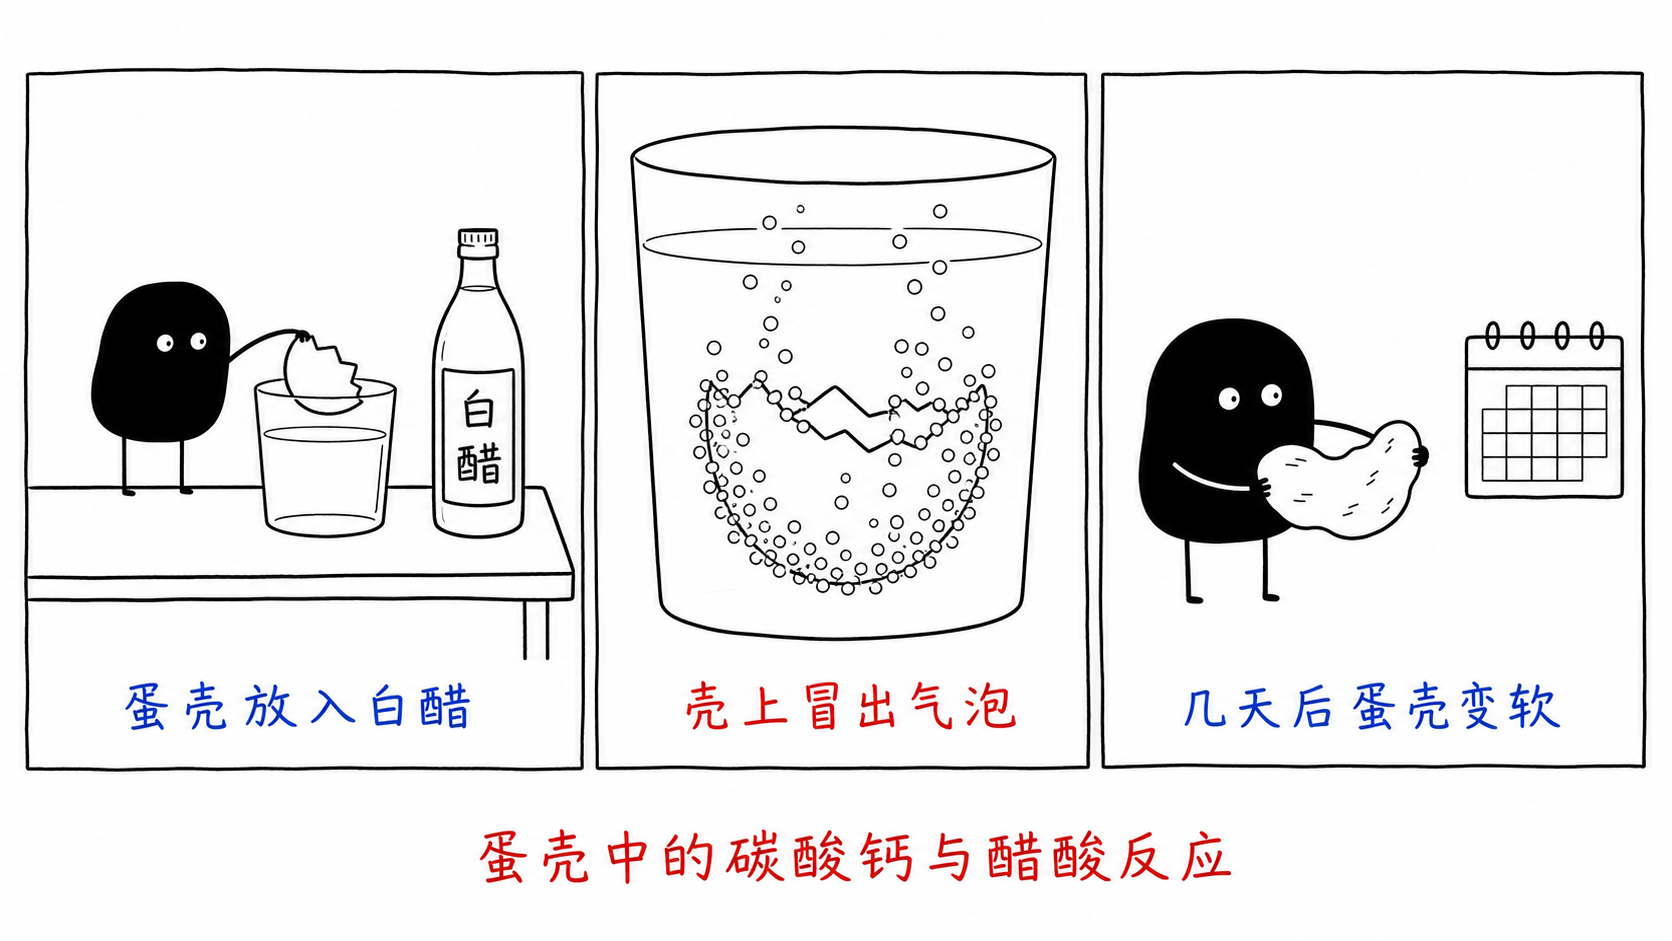
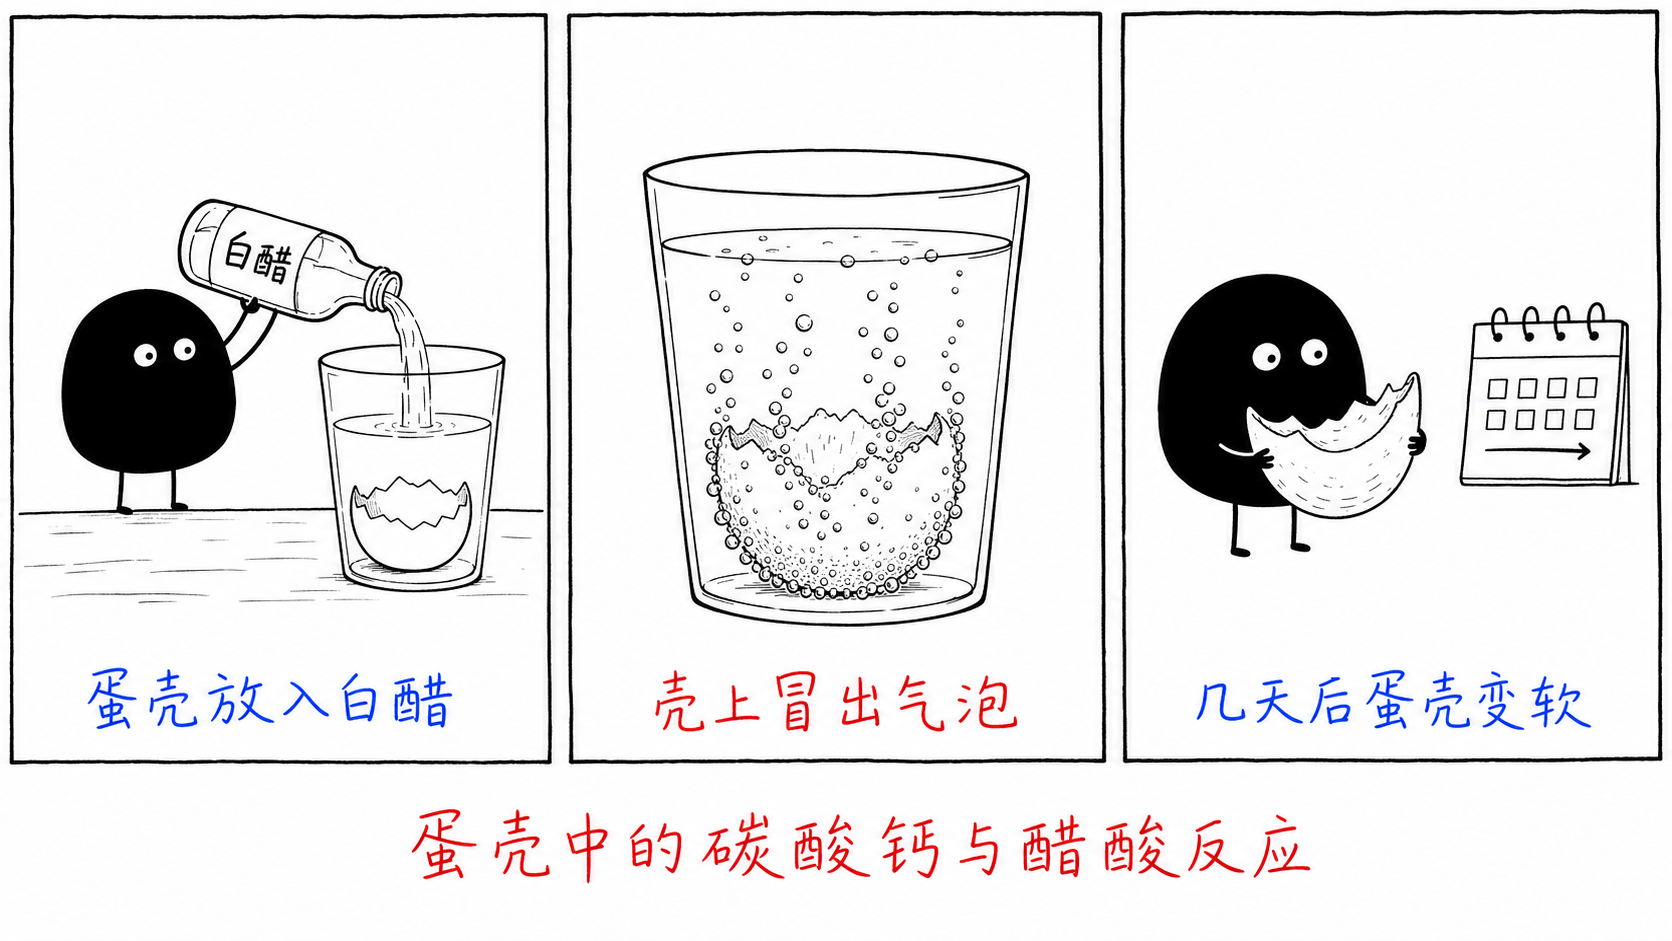
补推审稿三轮修订：图6扩为16格+图9/图10重做
- 图6 16格系列（组图v7）：新增化学除杂得精盐格；⑤⑥内容重分配（溶解+依次加
  氯化钡/氢氧化钠/碳酸钠溶液→过滤+石棉网蒸发结晶）；过滤装置改教材式（漏斗正立
  短直颈贴杯壁）；石灰乳倒入卤水；蒸发浓缩加酒精灯、冷却结晶自然冷却；电解格
  改电键串联+阴阳极产物标注+回路闭合修正
- 图9 v2：蛋壳已在杯中、白醋瓶倾斜倒液
- 图10 v2：去除多余罐子、三条解释标注统一蓝色
- 档案：16格逐格提示词与图9/图10提示词同步；README 16格

Changed region(s): [[0.0, 0.0, 0.9952, 0.8321], [0.2488, 0.8629, 0.7775, 0.9554], [0.0622, 0.7088, 0.2799, 0.7705]]

diff --git a/prompts/样图提示词档案.md b/prompts/样图提示词档案.md
@@ -25,24 +25,25 @@
 
 生成一张独立的 16:9 横版中文高中化学教学插图。【风格】通用风格，仅两处对话气泡、两个箭头标签与底部提问有文字（另允许微粒圆内的元素字母）。【角色】两个小黑分立容器两侧并明显面向对方、作面对面争辩姿态：左侧护目镜推至头顶（不遮眼）、张开双臂辩解并前倾；右侧戴小帽、抬手指向对方并前倾。【主题】以真实反应 2SO₂＋O₂⇌2SO₃ 辨析"可逆反应达到平衡后反应是否停止"。【微粒画法】SO₂＝一个标 S 的中圆两侧各连一个标 O 的小圆（弯折形）；O₂＝两个标 O 的小圆相连；SO₃＝一个标 S 的中圆周围连三个标 O 的小圆。【结构】中央画一只带塞的密闭容器，容器内三种微粒共存：恰好 2 个 SO₂、1 个 O₂、2 个 SO₃ 散布其中；容器中部画两支长度、粗细完全相同的水平箭头，上支向右标"正反应"、下支向左标"逆反应"。左侧角色气泡"达到平衡后反应就停止了"，右侧角色气泡"正逆反应仍在进行，只是速率相等"，画面下缘橙色手写"哪种说法对？"。【标注】只允许上述文字与圆内字母 S／O。【约束】容器内微粒计数必须恰好 2 SO₂＋1 O₂＋2 SO₃；每个圆内字母正确；两支箭头完全等长等粗；两个角色必须面对面、有对话争辩感；留白充分。
 
-### 图6 "海洋化学资源的综合利用"单元系列（15格通用+逐格）
+### 图6 "海洋化学资源的综合利用"单元系列（16格通用+逐格）
 
-十五格共用【系列风格】：通用风格；每格 1~3 条红/蓝标注；小黑在每格承担该步操作；涉及仪器须按规范绘制。逐格【主题与结构】如下（标注即每格允许出现的全部文字）：
+十六格共用【系列风格】：通用风格；每格 1~3 条红/蓝标注；小黑在每格承担该步操作；涉及仪器须按规范绘制（过滤一律用教材式装置：漏斗正立、短直颈竖直向下、接收烧杯在正下方、颈末端斜口轻贴杯内壁，颈绝不弯曲拉长）。逐格【主题与结构】如下（标注即每格允许出现的全部文字）：
 ①海洋宝库：小黑立于海上小船远眺，海面下画少量闪光点；蓝标"海水——巨大的化学资源宝库"。
 ②引入盐田：海水经引水渠进入成片浅方格盐田，小黑开小水闸；蓝标"海水引入盐田"。
 ③蒸发结晶：烈日照浅池，水位下降、池底析出小盐晶，小黑在旁擦汗；红标"日晒蒸发结晶"。
 ④得到粗盐：小黑戴草帽在干涸盐田耙盐成堆；红标"得到粗盐"。
-⑤溶解过滤：小黑用玻璃棒把粗盐搅入水杯→规范过滤装置（铁架台+铁圈托漏斗+滤纸+玻璃棒引流+烧杯承接、漏斗颈贴杯壁）→蒸发皿白盐；蓝标"溶解、过滤除去不溶性杂质"、红标"得到粗盐"。
-⑥贝壳石灰乳：贝壳堆＋小窑内火焰→桶中乳白液体，小黑搅拌；蓝标"贝壳煅烧"、红标"制成石灰乳"。
-⑦沉淀氢氧化镁：小黑将标"石灰乳"的桶倾入大沉降池，池中液体蓝标"海水"，池底白色絮状沉淀；红标"生成氢氧化镁沉淀"。
-⑧盐酸溶解与脱水（四段）：标"盐酸"的试剂瓶向白色沉淀烧杯倾倒（蓝标"加盐酸溶解"）→蒸发皿加热冒汽（蓝标"蒸发浓缩"）→烧杯坐冷水盆中析出晶体（蓝标"冷却结晶"）→密闭电热箱（底座电热丝、进气管标"通入氯化氢气体"）内加热晶体（红标"加热脱水"）；不出现明火。
-⑨电解得镁：电解槽两电极接电源＋−；＋端电极冒气泡红标"阳极产生氯气"，−端电极沉积金属红标"阴极得到镁"，极性必须自洽；槽下受热波纹，小黑拉闸；蓝标"电解熔融氯化镁"。
-⑩通氯提溴：大槽盛提盐后母液，导气管向液中鼓气泡，气泡周围液体泛浅橙色，小黑持管；蓝标"母液中通入氯气"、红标"溴离子转化为溴"。
-⑪吹出冷凝：鼓风机把热空气吹入橙色液槽，橙色蒸气经导管进入规范直形冷凝管（双层套管；下端侧口标"进水"、上端侧口标"出水"，逆流冷凝），管口滴橙棕色液滴入收集瓶；蓝标"热空气吹出"、红标"冷凝得到粗溴"。
-⑫溴的精制（三段）：洗气瓶通标"二氧化硫"的导管吸收溴蒸气（液体近无色，蓝标"吸收富集"）→同型瓶通标"氯气"的导管、液体转橙（蓝标"氯气氧化"）→简易蒸馏装置（圆底烧瓶+支管+接收瓶收深红棕液体，红标"蒸馏得到液溴"）。
-⑬海带灼烧（三段）：干海带旁，坩埚（带盖半开）置泥三角与三脚架上、下方酒精灯灼烧（蓝标"坩埚中灼烧"，海带必须在坩埚中灼烧而非敞口皿）→灰入烧杯加水、小黑持玻璃棒搅拌（蓝标"加水浸取"）→规范过滤装置同⑤（红标"滤液含碘离子"）。
-⑭氧化得碘：烧杯盛澄清滤液，标"氯气"的导管伸入液底鼓泡，气泡周围溶液转黄棕；蓝标"通入适量氯气"、红标"碘离子被氧化为碘"。
-⑮萃取分液：梨形分液漏斗架于铁圈，内分两层——上层近无色、下层紫红（四氯化碳密度大于水必须在下层），小黑开旋塞将下层放入锥形瓶，旁置标"四氯化碳"的试剂瓶；蓝标"加四氯化碳萃取"、红标"分液得到碘的四氯化碳溶液"。
+⑤溶解与除杂：两段——小黑用玻璃棒把粗盐搅入水杯（蓝标"将粗盐溶解"）→同杯生成白色沉淀，旁列标"氯化钡溶液""氢氧化钠溶液""碳酸钠溶液"的三只试剂瓶、小黑倾倒（蓝标"依次加入除杂溶液"）。
+⑥过滤与蒸发结晶：两段——教材式过滤装置：漏斗正立坐于铁圈、短直颈竖直向下、接收烧杯位于正下方且颈末端斜口轻贴杯内壁、玻璃棒引流、小黑自上方沿棒倾倒（蓝标"过滤"；漏斗颈绝不弯曲拉长）→三脚架上垫石棉网、蒸发皿置网上、下方酒精灯加热出白色晶体（红标"蒸发结晶得到精盐"）。
+⑦贝壳石灰乳：贝壳堆＋小窑内火焰→桶中乳白液体，小黑搅拌；蓝标"贝壳煅烧"、红标"制成石灰乳"。
+⑧沉淀氢氧化镁：小黑将标"石灰乳"的桶倾入大沉降池，池中液体蓝标"卤水"，池底白色絮状沉淀；红标"生成氢氧化镁沉淀"。
+⑨盐酸溶解与脱水（四段）：标"盐酸"的试剂瓶向白色沉淀烧杯倾倒（蓝标"加盐酸溶解"）→蒸发皿置三脚架石棉网上、下方酒精灯有火焰加热冒汽（蓝标"蒸发浓缩"）→烧杯直接静置桌面自然冷却析出晶体、不加任何冰水浴（蓝标"冷却结晶"）→密闭电热箱（底座电热丝、进气管标"通入氯化氢气体"）内加热晶体（红标"加热脱水"）；蒸发用明火酒精灯、脱水箱用电热。
+⑩电解得镁：电解槽置画面右侧；＋端电极冒气泡红标"阳极产生氯气"，−端电极沉积金属红标"阴极得到镁"，极性自洽；槽下受热波纹；＋极导线串联一只实验室电键（小底座+两接线柱+闸刀），小黑站在电键旁适中距离扳动闸刀；蓝标"电解熔融氯化镁"。
+⑪通氯提溴：大槽盛提盐后母液，导气管向液中鼓气泡，气泡周围液体泛浅橙色，小黑持管；蓝标"母液中通入氯气"、红标"溴离子转化为溴"。
+⑫吹出冷凝：鼓风机把热空气吹入橙色液槽，橙色蒸气经导管进入规范直形冷凝管（双层套管；下端侧口标"进水"、上端侧口标"出水"，逆流冷凝），管口滴橙棕色液滴入收集瓶；蓝标"热空气吹出"、红标"冷凝得到粗溴"。
+⑬溴的精制（三段）：洗气瓶通标"二氧化硫"的导管吸收溴蒸气（液体近无色，蓝标"吸收富集"）→同型瓶通标"氯气"的导管、液体转橙（蓝标"氯气氧化"）→简易蒸馏装置收深红棕液体（红标"蒸馏得到液溴"）。
+⑭海带灼烧（三段）：干海带旁，坩埚（带盖半开）置泥三角与三脚架上、下方酒精灯灼烧（蓝标"坩埚中灼烧"）→灰入烧杯加水、小黑持玻璃棒搅拌（蓝标"加水浸取"）→教材式过滤装置：漏斗正立、短直颈竖直向下、颈末端斜口轻贴正下方烧杯内壁、玻璃棒引流（红标"滤液含碘离子"；漏斗颈绝不弯曲拉长）。
+⑮氧化得碘：烧杯盛澄清滤液，标"氯气"的导管伸入液底鼓泡，气泡周围溶液转黄棕；蓝标"通入适量氯气"、红标"碘离子被氧化为碘"。
+⑯萃取分液：梨形分液漏斗架于铁圈，上层近无色、下层紫红（四氯化碳在下层），小黑开旋塞将下层放入锥形瓶，旁置标"四氯化碳"的试剂瓶；蓝标"加四氯化碳萃取"、红标"分液得到碘的四氯化碳溶液"。
 
 ### 图7 原子结构模型演变时间线
 
@@ -58,11 +59,11 @@
 
 ### 图9 家庭小实验记录漫画：鸡蛋壳泡白醋
 
-生成一张独立的 16:9 横版中文教学插图。【风格】通用风格，标注红/蓝两色。【角色】小黑在家庭餐桌旁操作。【主题】鸡蛋壳与白醋反应的家庭实验三格记录。【结构】三格分镜：第1格，小黑把半个蛋壳放入盛透明液体的玻璃杯，旁立标"白醋"的瓶子（直立摆放），蓝标"蛋壳放入白醋"；第2格，杯子特写，蛋壳表面附着大量细小气泡上升，红标"壳上冒出气泡"；第3格，小黑手持已变软可弯的蛋壳，旁画小日历示意数日后，蓝标"几天后蛋壳变软"。画面下缘红字"蛋壳中的碳酸钙与醋酸反应"。【标注】只允许上述文字。【约束】气泡必须附着在蛋壳上。
+生成一张独立的 16:9 横版中文教学插图。【风格】通用风格，标注红/蓝两色。【角色】小黑在家庭餐桌旁操作。【主题】鸡蛋壳与白醋反应的家庭实验三格记录。【结构】三格分镜（四边边框完整）：第1格，玻璃杯中已放有半个蛋壳，小黑手持标"白醋"的瓶子明显倾斜、液流正倒入杯中，蓝标"蛋壳放入白醋"；第2格，杯子特写，蛋壳表面附着大量细小气泡上升，红标"壳上冒出气泡"；第3格，小黑手持已变软可弯的蛋壳，旁画小日历示意数日后，蓝标"几天后蛋壳变软"。画面下缘红字"蛋壳中的碳酸钙与醋酸反应"。【标注】只允许上述文字。【约束】第1格蛋壳已在杯中、白醋瓶必须倾斜倒液；气泡必须附着在蛋壳上。
 
 ### 图10 生活化学调查漫画："厨房里藏着多少化学"
 
-生成一张独立的 16:9 横版中文教学插图。【风格】通用风格。【角色】小黑持放大镜与记录本在厨房台面巡查。【主题】厨房中的化学调查。【结构】单场景：台面上依次摆蒸笼（内有包子）、铁锅、带水垢的水壶、小罐；三条引线标注——橙字指蒸笼"小苏打发面，受热产生气体"、蓝字指铁锅"铁锅擦干抹油，防止生锈"、蓝字指水壶"食醋可除水垢"；顶部橙字"厨房里藏着多少化学？"。【标注】只允许这四处文字。【约束】器物简洁可辨；留白充分。
+生成一张独立的 16:9 横版中文教学插图。【风格】通用风格。【角色】小黑持放大镜与记录本在厨房台面巡查。【主题】厨房中的化学调查。【结构】单场景：台面上从左到右只摆蒸笼（内有包子）、铁锅、带水垢的水壶三件（不出现罐子等其他容器）；三条解释性引线标注全部用同一种蓝色、同一字号——指蒸笼"小苏打发面，受热产生气体"、指铁锅"铁锅擦干抹油，防止生锈"、指水壶"食醋可除水垢"；顶部橙字"厨房里藏着多少化学？"。【标注】只允许这四处文字。【约束】三条解释标注颜色统一为蓝色；台面上无其他物件；留白充分。
 
 ### 图11 安全科普海报：84消毒液与洁厕灵不可混用
 

diff --git a/README.md b/README.md
@@ -38,11 +38,11 @@
 
 </details>
 
-### 单元系列插图 · 海洋化学资源的综合利用（15格）
+### 单元系列插图 · 海洋化学资源的综合利用（16格）
 
-<img src="examples/成图/06_海洋资源综合利用_15格系列.png" width="720">
+<img src="examples/成图/06_海洋资源综合利用_16格系列.png" width="720">
 
-固定角色与统一风格使单图可扩展为整套单元资源：晒盐精制①~⑤ / 提镁⑥~⑨ / 提溴⑩~⑫ / 海带提碘⑬~⑮。十五格逐格提示词见[档案](prompts/样图提示词档案.md)。
+固定角色与统一风格使单图可扩展为整套单元资源：晒盐精制①~⑥ / 提镁⑦~⑩ / 提溴⑪~⑬ / 海带提碘⑭~⑯。十六格逐格提示词见[档案](prompts/样图提示词档案.md)。
 
 ### 为什么必须人工质检 · 三类典型错误
 
